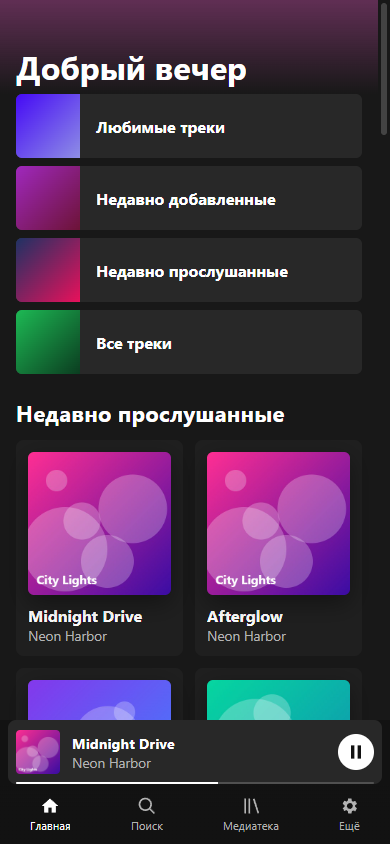
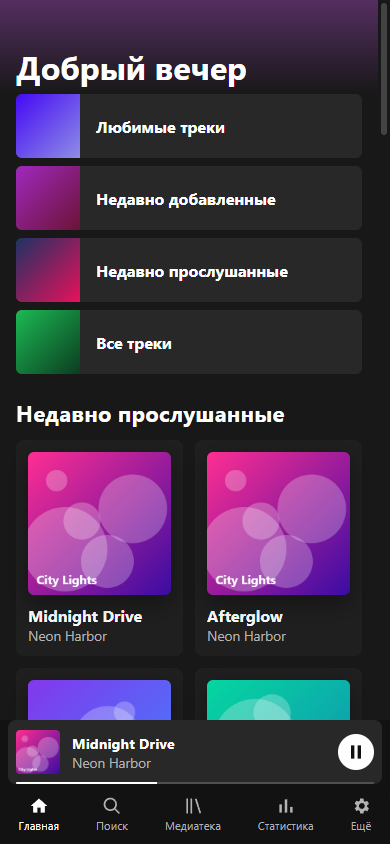
Статистика прослушиваний и итоги года (v1.1.0)

Changed region(s): [[0.2462, 0.9242, 0.8, 0.9858], [0.0615, 0.9242, 0.1846, 0.9858], [0.8615, 0.9242, 0.9538, 0.9858]]

diff --git a/index.html b/index.html
@@ -174,6 +174,20 @@ input[type=range]::-moz-range-thumb{width:12px;height:12px;border:0;border-radiu
 }
 #mprog{display:none}
 @media (max-width:768px){#mprog{display:block;position:absolute;left:8px;right:8px;bottom:0;height:2px;background:#ffffff30;border-radius:2px;overflow:hidden}#mprog i{display:block;height:100%;background:var(--tx);width:0}}
+.tiles{display:grid;grid-template-columns:repeat(auto-fill,minmax(160px,1fr));gap:12px}
+.tile{background:#ffffff0d;border-radius:var(--r);padding:16px}.tile b{display:block;font-size:2rem;line-height:1.1}.tile span{color:var(--tx2);font-size:.85rem}
+.bars{display:flex;align-items:flex-end;gap:4px;height:140px;padding-top:8px}.bars div{flex:1;display:flex;flex-direction:column;align-items:center;gap:4px;height:100%;justify-content:flex-end;min-width:0}
+.bars i{display:block;width:100%;background:var(--ac);border-radius:3px 3px 0 0;min-height:2px}.bars span{font-size:.7rem;color:var(--tx2);white-space:nowrap;height:1em}
+.cols2{display:grid;grid-template-columns:1fr 1fr;gap:24px}@media (max-width:900px){.cols2{grid-template-columns:1fr}}
+.trow{display:flex;align-items:center;gap:12px;padding:6px 8px;border-radius:6px;cursor:pointer;width:100%;text-align:left}.trow:hover{background:#ffffff14}
+.trow .n{width:22px;text-align:right;color:var(--tx2);font-variant-numeric:tabular-nums;flex:none}.trow .cv{width:44px;height:44px;border-radius:4px;flex:none;background-size:cover;background-position:center}.trow .r{margin-left:auto;color:var(--tx2);font-size:.85rem;white-space:nowrap}
+.wbanner{display:flex;align-items:center;gap:16px;padding:20px 24px;border-radius:12px;background:linear-gradient(120deg,#ff2e93,#8338ec 55%,#3a86ff);color:#fff;width:100%;text-align:left;margin-top:8px}
+.wbanner b{font-size:1.5rem}.wbanner:hover{filter:brightness(1.1)}
+.wr{padding:0 24px 24px;display:grid;gap:16px}.ws{border-radius:16px;padding:40px 32px;color:#fff;min-height:300px;display:flex;flex-direction:column;justify-content:center;position:relative;overflow:hidden}
+.ws h2{font-size:clamp(1.6rem,4vw,2.6rem);margin:0 0 8px;line-height:1.1}.ws .big{font-size:clamp(3rem,12vw,7rem);font-weight:900;line-height:1;letter-spacing:-.03em}
+.ws p{font-size:1.1rem;opacity:.92;margin:8px 0}.ws .trow{color:#fff}.ws .trow .r,.ws .trow .n,.ws .trow .muted{color:#ffffffc0}.ws .trow:hover{background:#ffffff22}
+.ws .acv{width:180px;height:180px;border-radius:50%;box-shadow:0 12px 40px #0007;margin-bottom:16px;background-size:cover;background-position:center}
+.ws.in{animation:wsIn .6s both}@keyframes wsIn{from{opacity:0;transform:translateY(24px)}}
 @media (prefers-reduced-motion:reduce){*{transition:none!important;animation:none!important}}
 .sr{position:absolute;width:1px;height:1px;overflow:hidden;clip:rect(0 0 0 0)}
 </style>
@@ -185,6 +199,7 @@ input[type=range]::-moz-range-thumb{width:12px;height:12px;border:0;border-radiu
       <div style="display:flex;align-items:center;gap:8px;padding:4px 12px 12px;font-weight:800;font-size:1.25rem"><span style="color:var(--ac)" data-i="logo"></span>MyTunes</div>
       <button class="nav" data-go="home"><span data-i="home"></span>Главная</button>
       <button class="nav" data-go="search"><span data-i="search"></span>Поиск</button>
+      <button class="nav" data-go="stats"><span data-i="chart"></span>Статистика</button>
       <button class="nav" data-go="settings"><span data-i="gear"></span>Настройки</button>
     </nav>
     <section class="box" id="libbox" aria-label="Моя медиатека">
@@ -219,6 +234,7 @@ input[type=range]::-moz-range-thumb{width:12px;height:12px;border:0;border-radiu
     <button data-go="home"><span data-i="home"></span>Главная</button>
     <button data-go="search"><span data-i="search"></span>Поиск</button>
     <button data-go="library"><span data-i="lib"></span>Медиатека</button>
+    <button data-go="stats"><span data-i="chart"></span>Статистика</button>
     <button data-go="settings"><span data-i="gear"></span>Ещё</button>
   </nav>
 </div>
@@ -285,6 +301,7 @@ const ICONS = {
   search:'<svg viewBox="0 0 24 24"><path d="M10 2a8 8 0 0 1 6.3 12.9l5.4 5.4-1.4 1.4-5.4-5.4A8 8 0 1 1 10 2zm0 2a6 6 0 1 0 0 12 6 6 0 0 0 0-12z"/></svg>',
   lib:'<svg viewBox="0 0 24 24"><path d="M4 3h2v18H4zm5 0h2v18H9zm5.3.6 1.9-.6 5.6 17.4-1.9.6z"/></svg>',
   gear:'<svg viewBox="0 0 24 24"><path d="M19.4 13a7.5 7.5 0 0 0 0-2l2.1-1.6-2-3.5-2.5 1a7 7 0 0 0-1.7-1L15 3h-4l-.4 2.7a7 7 0 0 0-1.7 1l-2.5-1-2 3.5L6.6 11a7.5 7.5 0 0 0 0 2l-2.1 1.6 2 3.5 2.5-1a7 7 0 0 0 1.7 1L11 21h4l.4-2.7a7 7 0 0 0 1.7-1l2.5 1 2-3.5zM13 15.5a3.5 3.5 0 1 1 0-7 3.5 3.5 0 0 1 0 7z"/></svg>',
+  chart:'<svg viewBox="0 0 24 24"><path d="M4 20V10h3v10zm6.5 0V4h3v16zM17 20v-7h3v7z"/></svg>',
   plus:'<svg viewBox="0 0 24 24"><path d="M11 4h2v7h7v2h-7v7h-2v-7H4v-2h7z"/></svg>',
   play:'<svg viewBox="0 0 24 24"><path d="M7 4v16l13-8z"/></svg>',
   pause:'<svg viewBox="0 0 24 24"><path d="M6 4h4v16H6zm8 0h4v16h-4z"/></svg>',
@@ -574,7 +591,7 @@ const Library = {
   /* Экспорт метаданных и плейлистов в JSON (без аудио) */
   exportJSON() {
     const data = { app: 'MyTunes', version: 1, exported: new Date().toISOString(),
-      tracks: this.list().map(({ cover, ...t }) => t), playlists: this.playlists.map(({ cover, ...p }) => p), liked: this.liked };
+      tracks: this.list().map(({ cover, ...t }) => t), playlists: this.playlists.map(({ cover, ...p }) => p), liked: this.liked, log: Stats.all() };
     const a = document.createElement('a'); a.href = URL.createObjectURL(new Blob([JSON.stringify(data, null, 2)], { type: 'application/json' }));
     a.download = 'mytunes-library.json'; a.click(); setTimeout(() => URL.revokeObjectURL(a.href), 1000);
   },
@@ -589,6 +606,8 @@ const Library = {
       for (const p of d.playlists || []) { const tr = (p.tracks || []).map(id => idMap[id]).filter(Boolean);
         await this.createPlaylist(p.name, tr); }
       this.liked = [...new Set([...this.liked, ...(d.liked || []).map(id => idMap[id]).filter(Boolean)])]; LS.set('liked', this.liked);
+      if (Array.isArray(d.log)) { const seen = new Set(Stats.log.map(e => e.t + e.i));
+        for (const e of d.log) { const m = { ...e, i: idMap[e.i] || e.i }; if (!seen.has(m.t + m.i)) Stats.log.push(m); } Stats.log.sort((x, y) => x.t - y.t); Stats.save(); }
       toast(`Импорт: обновлено треков ${n}, плейлистов ${(d.playlists || []).length}`); UI.refresh();
     } catch (e) { toast('Не удалось прочитать JSON медиатеки', 1); }
   },
@@ -646,6 +665,47 @@ const Queue = {
 };
 
 /* =====================================================================
+   Stats — журнал прослушиваний (localStorage) и агрегаты для статистики / итогов года
+   ===================================================================== */
+const Stats = {
+  log: LS.get('log', []), cur: null, last: null, saved: 0,
+  init() { const c = LS.get('logCur'); if (c && c.s >= 10) this.log.push(c); this.save();
+    window.addEventListener('beforeunload', () => this.flush());
+    document.addEventListener('visibilitychange', () => document.hidden && this.save()); },
+  begin(t) { this.flush(); this.cur = { i: t.id, ti: t.title, a: t.artist, al: t.album, t: Date.now(), s: 0 }; this.last = null; this.saved = 0; },
+  tick(el) { const c = this.cur; if (!c || el.paused) { this.last = null; return; }
+    const ct = el.currentTime; if (this.last != null) { const d = ct - this.last; if (d > 0 && d < 2) c.s += d; } this.last = ct;
+    if (c.s - this.saved > 15) { this.saved = c.s; LS.set('logCur', this.pack(c)); } },
+  pack(c) { return { ...c, s: Math.round(c.s) }; },
+  flush() { const c = this.cur; this.cur = null; if (c && c.s >= 10) this.log.push(this.pack(c)); this.save(); },
+  save() { LS.set('log', this.log); LS.set('logCur', this.cur ? this.pack(this.cur) : null); },
+  all() { return this.cur && this.cur.s >= 10 ? [...this.log, this.pack(this.cur)] : this.log; },
+  years() { return [...new Set(this.all().map(e => new Date(e.t).getFullYear()))].sort((a, b) => b - a); },
+  range(p) { const now = Date.now(), d = 864e5, E = this.all();
+    if (p === 'week') return E.filter(e => e.t > now - 7 * d); if (p === 'month') return E.filter(e => e.t > now - 30 * d);
+    if (/^\d{4}$/.test(p)) return E.filter(e => new Date(e.t).getFullYear() === +p); return E; },
+  agg(E) {
+    const tr = new Map(), ar = new Map(), hour = Array(24).fill(0), dow = Array(7).fill(0), mon = Array(12).fill(0), days = new Map(); let sec = 0, plays = 0;
+    for (const e of E) { const dt = new Date(e.t), t = Library.get(e.i), a = t ? t.artist : e.a; sec += e.s; if (e.s >= 30) plays++;
+      const x = tr.get(e.i) || { id: e.i, ti: t ? t.title : e.ti, a, n: 0, s: 0 }; x.n++; x.s += e.s; tr.set(e.i, x);
+      const y = ar.get(a) || { a, n: 0, s: 0, ids: new Set() }; y.n++; y.s += e.s; y.ids.add(e.i); ar.set(a, y);
+      hour[dt.getHours()] += e.s; dow[(dt.getDay() + 6) % 7] += e.s; mon[dt.getMonth()] += e.s;
+      const k = dt.toDateString(); days.set(k, (days.get(k) || 0) + e.s); }
+    const by = (a, b) => b.s - a.s || b.n - a.n;
+    // самая длинная серия дней подряд
+    const ds = [...days.keys()].map(k => new Date(k).getTime()).sort((a, b) => a - b); let streak = 0, run = 0;
+    ds.forEach((v, k) => { run = k && Math.round((v - ds[k - 1]) / 864e5) === 1 ? run + 1 : 1; streak = Math.max(streak, run); });
+    const bestDay = [...days].sort((a, b) => b[1] - a[1])[0];
+    return { sec, plays, n: E.length, tracks: [...tr.values()].sort(by), artists: [...ar.values()].sort(by), hour, dow, mon, days: days.size, streak, bestDay };
+  },
+};
+const MONTHS = ['Янв', 'Фев', 'Мар', 'Апр', 'Май', 'Июн', 'Июл', 'Авг', 'Сен', 'Окт', 'Ноя', 'Дек'];
+const MONTHS_F = ['январь', 'февраль', 'март', 'апрель', 'май', 'июнь', 'июль', 'август', 'сентябрь', 'октябрь', 'ноябрь', 'декабрь'];
+const DOW = ['Пн', 'Вт', 'Ср', 'Чт', 'Пт', 'Сб', 'Вс'];
+const nf = n => Math.round(n).toLocaleString('ru-RU');
+const plural = (n, a, b, c) => { n = Math.abs(Math.round(n)) % 100; const k = n % 10; return n > 10 && n < 20 ? c : k > 1 && k < 5 ? b : k === 1 ? a : c; };
+
+/* =====================================================================
    Player — два <audio> через Web Audio API: кроссфейд, gapless, EQ, анализатор
    ===================================================================== */
 const EQ_BANDS = [32, 64, 125, 250, 500, 1000, 2000, 4000, 8000, 16000];
@@ -657,7 +717,7 @@ const Player = {
   init() {
     this.els.forEach((a, k) => {
       a.preload = 'auto';
-      a.addEventListener('timeupdate', () => { if (k === this.cur) { this.checkFade(); UI.progress(); } });
+      a.addEventListener('timeupdate', () => { if (k === this.cur) { Stats.tick(a); this.checkFade(); UI.progress(); } });
       a.addEventListener('ended', () => { if (k === this.cur && !this.fading) this.onEnded(); });
       a.addEventListener('play', () => k === this.cur && UI.syncControls());
       a.addEventListener('pause', () => k === this.cur && UI.syncControls());
@@ -697,7 +757,7 @@ const Player = {
     if (autoplay) this.play(); this.started(t);
   },
   started(t) {
-    t.plays = (t.plays || 0) + 1; t.lastPlayed = Date.now(); Storage.put('tracks', t).catch(() => {});
+    Stats.begin(t); t.plays = (t.plays || 0) + 1; t.lastPlayed = Date.now(); Storage.put('tracks', t).catch(() => {});
     Library.pushRecent(t.id); UI.syncTrack(); Queue.save();
   },
   play() { if (!this.track) { if (Queue.list.length) return this.load(true); const l = UI.currentList(); if (l.length) { Queue.set(l.map(t => t.id)); return this.load(true); } return; }
@@ -858,6 +918,8 @@ const UI = {
       artist: () => { const ts = Library.artists().get(a) || []; return this.trackPage({ title: a, kind: 'Исполнитель', tracks: ts, coverTrack: ts.find(x => x.cover), round: true, sortable: true }); },
       album: () => { const ts = Library.albums().get(a) || []; const t0 = ts[0] || {}; return this.trackPage({ title: t0.album, kind: 'Альбом', sub: `${esc(t0.artist)}${t0.year ? ' · ' + esc(t0.year) : ''}`, tracks: ts, coverTrack: ts.find(x => x.cover) }); },
       settings: () => this.settings(),
+      stats: () => this.statsView(),
+      wrapped: () => this.wrapped(+a || new Date().getFullYear()),
     };
     (V[r] || V.home)();
     fillIcons(m);
@@ -995,6 +1057,75 @@ const UI = {
       row.oncontextmenu = e => { e.preventDefault(); this.trackMenu(e, Library.get(row.dataset.row)); };
       $('.more', row).onclick = e => { e.stopPropagation(); this.trackMenu(e, Library.get(row.dataset.row)); }; });
     this.markPlaying();
+  },
+  /* ---------- Статистика ---------- */
+  statPeriod: 'month',
+  topRows(items, kind) {
+    return items.map((x, k) => { if (kind === 't') return `<button class="trow" data-playtop="${x.id}"><span class="n">${k + 1}</span><div class="cv" style="${coverCSS(Library.get(x.id), x.ti)}"></div><div style="min-width:0"><b class="ell" style="display:block">${esc(x.ti)}</b><span class="sm muted ell" style="display:block">${esc(x.a)}</span></div><span class="r">${x.n} × · ${nf(x.s / 60)} мин</span></button>`;
+      const t = Library.list().find(y => y.artist === x.a && y.cover);
+      return `<button class="trow" data-go="artist" data-arg="${esc(x.a)}"><span class="n">${k + 1}</span><div class="cv" style="border-radius:50%;${coverCSS(t, x.a)}"></div><div style="min-width:0"><b class="ell" style="display:block">${esc(x.a)}</b><span class="sm muted">${x.ids.size} ${plural(x.ids.size, 'трек', 'трека', 'треков')}</span></div><span class="r">${nf(x.s / 60)} мин</span></button>`; }).join('');
+  },
+  barChart(vals, labels) { const mx = Math.max(...vals, 1);
+    return `<div class="bars">${vals.map((v, k) => `<div title="${nf(v / 60)} мин"><i style="height:${(v / mx * 100).toFixed(1)}%"></i><span>${labels[k]}</span></div>`).join('')}</div>`; },
+  bindTop(root) { if (!root) return; $$('[data-playtop]', root).forEach(b => b.onclick = () => { const id = b.dataset.playtop; if (!Library.get(id)) return toast('Этого трека больше нет в медиатеке', 1);
+    const ids = [...$$('[data-playtop]', root)].map(x => x.dataset.playtop).filter(i => Library.get(i)); Queue.set(ids, ids.indexOf(id)); Player.load(true); }); },
+  statsView() {
+    this.setHeader('#3a2a5a'); this.list = [];
+    const p = this.statPeriod, years = Stats.years(), y = new Date().getFullYear(), S = Stats.agg(Stats.range(p));
+    const per = [['week', '7 дней'], ['month', '30 дней'], ...years.map(v => [String(v), String(v)]), ['all', 'Всё время']];
+    const m = $('#main');
+    m.innerHTML = `<div class="hdr"><div><div class="sm" style="font-weight:600">Ваша музыка в цифрах</div><h1>Статистика</h1></div></div>
+      <div class="toolbar">${per.map(([v, n]) => `<button class="pill ${p === v ? 'on' : ''}" data-per="${v}">${n}</button>`).join('')}</div>
+      <div class="sec">
+        <button class="wbanner" data-go="wrapped" data-arg="${years[0] || y}"><div style="font-size:2.4rem">✦</div><div><b>Итоги ${years[0] || y} года</b><div>Главные треки, исполнители и привычки за год</div></div><span style="margin-left:auto;font-size:1.6rem">→</span></button>
+        ${!S.n ? `<div class="empty">${I('chart')}<h3>Пока нет данных</h3><p>Статистика копится, пока вы слушаете музыку: засчитывается каждый трек, который играл хотя бы 10 секунд.</p></div>` : `
+        <h2>Итого</h2><div class="tiles">
+          <div class="tile"><b>${nf(S.sec / 60)}</b><span>минут прослушано</span></div>
+          <div class="tile"><b>${nf(S.plays)}</b><span>прослушиваний</span></div>
+          <div class="tile"><b>${nf(S.tracks.length)}</b><span>разных треков</span></div>
+          <div class="tile"><b>${nf(S.artists.length)}</b><span>исполнителей</span></div>
+          <div class="tile"><b>${S.days}</b><span>${plural(S.days, 'день', 'дня', 'дней')} с музыкой</span></div>
+          <div class="tile"><b>${S.streak}</b><span>${plural(S.streak, 'день', 'дня', 'дней')} подряд — рекорд</span></div></div>
+        <div class="cols2"><div><h2>Топ треков</h2><div id="sTop">${this.topRows(S.tracks.slice(0, 10), 't')}</div></div><div><h2>Топ исполнителей</h2>${this.topRows(S.artists.slice(0, 10), 'a')}</div></div>
+        <div class="cols2"><div><h2>По времени суток</h2>${this.barChart(S.hour, S.hour.map((_, h) => h % 3 ? '' : h))}</div><div><h2>По дням недели</h2>${this.barChart(S.dow, DOW)}</div></div>
+        ${p === 'week' || p === 'month' ? '' : `<h2>По месяцам</h2>${this.barChart(S.mon, MONTHS)}`}`}
+      </div>`;
+    $$('[data-per]', m).forEach(b => b.onclick = () => { this.statPeriod = b.dataset.per; this.render(); });
+    this.bindTop($('#sTop'));
+  },
+  /* ---------- Итоги года ---------- */
+  wrapped(year) {
+    this.setHeader('#5a1e6e'); this.list = [];
+    const S = Stats.agg(Stats.range(String(year))), m = $('#main'), years = Stats.years();
+    const head = `<div class="hdr"><div><div class="sm" style="font-weight:600">MyTunes</div><h1>Итоги ${year}</h1></div></div>
+      ${years.length > 1 ? `<div class="toolbar">${years.map(v => `<button class="pill ${v === year ? 'on' : ''}" data-go="wrapped" data-arg="${v}">${v}</button>`).join('')}</div>` : ''}`;
+    if (!S.n) { m.innerHTML = head + `<div class="sec"><div class="empty">${I('chart')}<h3>За ${year} год пока ничего</h3><p>Слушайте музыку в MyTunes — итоги года соберутся автоматически.</p><button class="btn" data-go="home">На главную</button></div></div>`; return; }
+    const min = S.sec / 60, ta = S.artists[0], tt = S.tracks[0];
+    const taT = Library.list().find(t => t.artist === ta.a && t.cover), ttT = Library.get(tt.id);
+    const bm = S.mon.indexOf(Math.max(...S.mon)), bh = S.hour.indexOf(Math.max(...S.hour));
+    const part = [[0, 5, 'Ночная сова', 'Больше всего вы слушаете глубокой ночью — пока все спят, у вас играет музыка.'], [5, 12, 'Ранняя пташка', 'Ваш пик — утро. Музыка помогает вам проснуться и начать день.'],
+      [12, 18, 'Дневной слушатель', 'Чаще всего музыка звучит у вас днём — за работой, учёбой или в дороге.'], [18, 24, 'Вечерний меломан', 'Вечер — ваше время: больше всего вы слушаете, когда день подходит к концу.']]
+      .find(([a, b]) => bh >= a && bh < b);
+    const variety = S.tracks.length / Math.max(1, S.n);
+    const bd = S.bestDay && new Date(S.bestDay[0]);
+    const dec = v => v.toFixed(1).replace('.', ',');
+    const sl = (bg, html) => `<section class="ws in" style="background:${bg}">${html}</section>`;
+    m.innerHTML = head + `<div class="wr">
+      ${sl('linear-gradient(135deg,#ff2e93,#8338ec)', `<p>Ваш год в музыке</p><div class="big">${year}</div><p>Мы посчитали всё, что вы слушали в MyTunes. Листайте вниз.</p>`)}
+      ${sl('linear-gradient(135deg,#1DB954,#0b5d2a)', `<p>Вы слушали музыку</p><div class="big">${nf(min)}</div><h2>${plural(min, 'минуту', 'минуты', 'минут')}</h2><p>Это ${dec(min / 60)} ч, или ${dec(min / 1440)} суток без перерыва. ${S.plays} прослушиваний за ${S.days} ${plural(S.days, 'день', 'дня', 'дней')}.</p>`)}
+      ${sl('linear-gradient(135deg,#f77f00,#d62828)', `<div class="acv" style="${coverCSS(taT, ta.a)}"></div><p>Исполнитель года</p><h2>${esc(ta.a)}</h2><p>${nf(ta.s / 60)} мин и ${ta.ids.size} ${plural(ta.ids.size, 'разный трек', 'разных трека', 'разных треков')}. Это ${Math.round(ta.s / S.sec * 100)}% всего вашего времени с музыкой.</p>`)}
+      ${sl('linear-gradient(135deg,#3a86ff,#03045e)', `<div class="acv" style="border-radius:12px;${coverCSS(ttT, tt.ti)}"></div><p>Трек года</p><h2>${esc(tt.ti)}</h2><p>${esc(tt.a)} · вы включали его ${tt.n} ${plural(tt.n, 'раз', 'раза', 'раз')}</p>`)}
+      ${sl('linear-gradient(135deg,#7209b7,#3a0ca3)', `<h2>Топ-5 треков</h2><div id="wTop">${this.topRows(S.tracks.slice(0, 5), 't')}</div>`)}
+      ${sl('linear-gradient(135deg,#e63946,#6a040f)', `<h2>Топ-5 исполнителей</h2>${this.topRows(S.artists.slice(0, 5), 'a')}`)}
+      ${sl('linear-gradient(135deg,#118ab2,#073b4c)', `<p>Ваш тип слушателя</p><h2>${part[2]}</h2><p>${part[3]} Пик — около ${bh}:00.</p>
+        <p>Самый музыкальный месяц — <b>${MONTHS_F[bm]}</b>${bd ? `, самый насыщенный день — <b>${bd.toLocaleDateString('ru-RU', { day: 'numeric', month: 'long' })}</b> (${nf(S.bestDay[1] / 60)} мин)` : ''}.</p>
+        <p>Рекорд: ${S.streak} ${plural(S.streak, 'день', 'дня', 'дней')} подряд с музыкой. ${variety > .6 ? 'Вы любите открывать новое — почти каждый раз звучит другой трек.' : variety > .3 ? 'У вас баланс между любимым и новым.' : 'Вы верны любимым трекам и слушаете их снова и снова.'}</p>`)}
+      ${sl('linear-gradient(135deg,#ffb703,#fb8500)', `<h2>Соберём это в плейлист?</h2><p>Треки из вашего топа ${year} года — в одном плейлисте.</p><div class="chips" style="margin-top:12px"><button class="btn" id="wPl" style="background:#000;color:#fff">Создать «Мой топ ${year}»</button></div>`)}
+    </div>`;
+    this.bindTop($('#wTop'));
+    $('#wPl').onclick = async () => { const ids = S.tracks.map(x => x.id).filter(i => Library.get(i)).slice(0, 50);
+      if (!ids.length) return toast('Треков из топа больше нет в медиатеке', 1);
+      const pl = await Library.createPlaylist('Мой топ ' + year, ids); this.go('playlist', pl.id); };
   },
   async settings() {
     this.setHeader('#333'); this.list = [];
@@ -1236,7 +1367,7 @@ function applyTheme(theme, accent) {
    Запуск
    ===================================================================== */
 (async function boot() {
-  applyTheme(); UI.init(); Player.init(); UI.render(); UI.syncVolume();
+  applyTheme(); Stats.init(); UI.init(); Player.init(); UI.render(); UI.syncVolume();
   try { await Storage.open(); await Library.load(); }
   catch (e) { toast('IndexedDB недоступна — треки не будут сохраняться', 1); console.error(e); }
   UI.loading = false;

diff --git a/scripts/screenshots.js b/scripts/screenshots.js
@@ -62,6 +62,13 @@ const SEED = `(async () => {
   coverURLs.clear(); colorCache.clear();
   Player.setVolume(0.6);
   Queue.set(Library.pl(Library.playlists[0].id).tracks, 0); await Player.load(true);
+  // история прослушиваний за год для статистики и итогов года
+  const ts2 = Library.list(), w = ts2.map((_, k) => 1 / (k + 1.5)), W = w.reduce((a, b) => a + b);
+  const pick = () => { let r = Math.random() * W; for (let k = 0; k < ts2.length; k++) if ((r -= w[k]) < 0) return ts2[k]; return ts2[0]; };
+  const y0 = new Date(new Date().getFullYear(), 0, 1).getTime();
+  for (let k = 0; k < 900; k++) { const t = pick(), d = new Date(y0 + Math.random() * (Date.now() - y0)); d.setHours([8, 13, 19, 21, 22, 23][k % 6], Math.random() * 60);
+    if (d.getTime() < Date.now()) Stats.log.push({ i: t.id, ti: t.title, a: t.artist, al: t.album, t: d.getTime(), s: Math.round(t.duration * (0.6 + Math.random() * 0.4)) }); }
+  Stats.log.sort((a, b) => a.t - b.t); Stats.save();
   UI.refresh(); return true;
 })()`;
 
@@ -81,7 +88,9 @@ app.whenReady().then(async () => {
   await js(`UI.toggleQueue(false); UI.go('search'); const i=document.querySelector('#sq'); i.value='neon'; UI.q='neon'; UI.renderResults()`); await shot('search.png');
   await js(`UI.toggleFull(true); document.querySelector('#full details').open = true`); await shot('now-playing.png', 1500);
   await js(`UI.toggleFull(false); applyTheme('light', '#1E90FF'); UI.go('liked')`); await shot('light-theme.png', 1400);
-  await js(`applyTheme('dark', '#1DB954'); UI.go('home')`);
+  await js(`applyTheme('dark', '#1DB954'); UI.statPeriod = String(new Date().getFullYear()); UI.go('stats')`); await shot('stats.png', 1400);
+  await js(`UI.go('wrapped', String(new Date().getFullYear())); document.querySelectorAll('.ws')[2].scrollIntoView()`); await shot('wrapped.png', 1400);
+  await js(`UI.go('home')`);
   win.setContentSize(390, 844); await shot('mobile.png', 1200);
   await js(`UI.toggleFull(true)`); await shot('mobile-now-playing.png', 1500);
   app.quit();

diff --git a/README.md b/README.md
@@ -11,6 +11,8 @@
 | ![Плейлист](docs/screenshots/playlist.png) | ![Сейчас играет](docs/screenshots/now-playing.png) |
 | **Очередь воспроизведения** | **Поиск** |
 | ![Очередь](docs/screenshots/queue.png) | ![Поиск](docs/screenshots/search.png) |
+| **Статистика прослушиваний** | **Итоги года** |
+| ![Статистика](docs/screenshots/stats.png) | ![Итоги года](docs/screenshots/wrapped.png) |
 | **Светлая тема и свой акцент** | **Мобильная версия** |
 | ![Светлая тема](docs/screenshots/light-theme.png) | <img src="docs/screenshots/mobile.png" width="200"> <img src="docs/screenshots/mobile-now-playing.png" width="200"> |
 
@@ -21,6 +23,7 @@
 - Чтение ID3-тегов и обложек, хранение треков в IndexedDB
 - Плейлисты, «Любимые треки», исполнители, альбомы, поиск, сортировка, вид списком/сеткой
 - Очередь с перетаскиванием, shuffle, repeat, кроссфейд 0–12 с, 10-полосный эквалайзер, визуализатор
+- Статистика прослушиваний (топы, минуты, графики по часам/дням/месяцам) и «Итоги года»
 - Горячие клавиши, Media Session API, тёмная/светлая тема, выбор акцента, экспорт/импорт JSON
 
 ## Запуск в браузере
